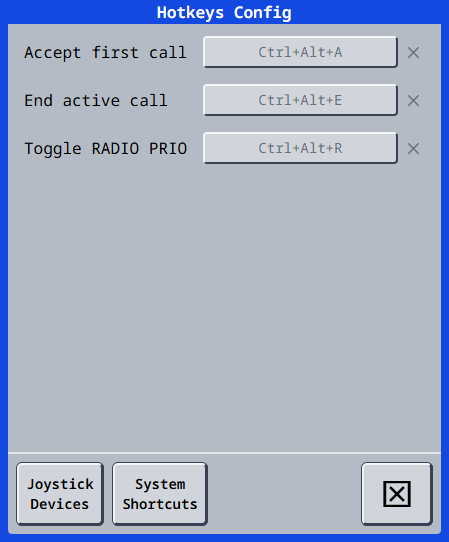
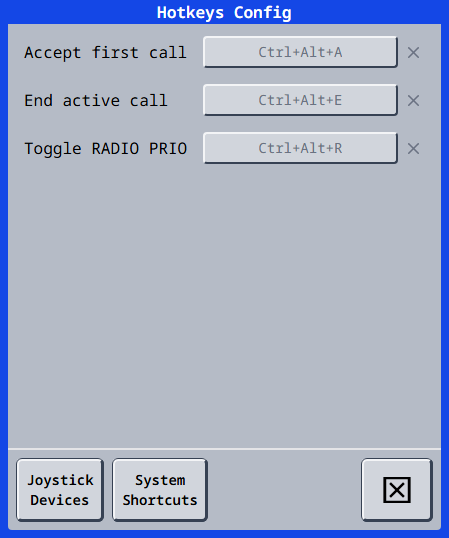
docs: prepare 2.7.0 release notes (#74)
* docs: write the Linux install section and cover the AppImage

* docs: note the portal requirement for starting the AppImage on Wayland

Claude-Session: https://claude.ai/code/session_012hjmtJQR6JjEwKLMx2nXVP

* docs: document the say again function key

Claude-Session: https://claude.ai/code/session_01CGb1WwmQVVZ9EJicUaTEZz

* docs: note desktops without the global shortcuts portal

Claude-Session: https://claude.ai/code/session_01C6JUT4woXmNwLWCHjqx29S

* docs: explain which IP to use and how to unblock the remote control port

Claude-Session: https://claude.ai/code/session_011NWCn7SR8uhb8fMQDxeXPi

* docs: show the Hotkeys Config without a shortcuts portal

* docs: add the SAY AGAIN key image and refresh the Playback page image

* docs: refresh the captured images from the 2.7.0 Windows run

* docs: prepare 2.7.0 release notes

* docs: show the AppImage on the Linux release download image

---------

diff --git a/docs/advanced/remote-api.md b/docs/advanced/remote-api.md
@@ -311,19 +311,20 @@ The joystick commands require the `joystick` [capability](#capabilities). On a h
 
 Recording and replay of radio traffic. Requires the `playback` [capability](#capabilities); commands that reach the recorder return empty results when no recorder is running.
 
-| Command                | Args                                                                                                                                        | Returns                       | Description                                                                          |
-| ---------------------- | ------------------------------------------------------------------------------------------------------------------------------------------- | ----------------------------- | ------------------------------------------------------------------------------------ |
-| `playback_get_enabled` | -                                                                                                                                           | `boolean`                     | Whether playback recording is enabled.                                               |
-| `playback_set_enabled` | `enabled`: boolean                                                                                                                          | `null`                        | Enable or disable playback recording. Persisted to the client config.                |
-| `playback_list`        | -                                                                                                                                           | [`ClipMeta[]`](#clipmeta)     | List the recorded clips.                                                             |
-| `playback_delete`      | `id`: number                                                                                                                                | `boolean`                     | Delete a clip. Returns whether a clip was removed.                                   |
-| `playback_clear`       | -                                                                                                                                           | `null`                        | Delete all clips.                                                                    |
-| `playback_start`       | `id`: number, `deviceType`: [`PlaybackDeviceType`](#playbackdevicetype), `initialProgress`: number?, `startPaused`: boolean?                 | `null`                        | Start playing a clip. `initialProgress` is a fraction from 0.0 to 1.0.               |
-| `playback_pause`       | -                                                                                                                                           | `null`                        | Pause the playing clip.                                                              |
-| `playback_continue`    | -                                                                                                                                           | `null`                        | Resume the paused clip.                                                              |
-| `playback_stop`        | -                                                                                                                                           | `null`                        | Stop playback and release the audio source.                                          |
-| `playback_seek`        | `millis`: number                                                                                                                            | `null`                        | Seek within the playing clip. Negative values rewind.                                |
-| `playback_export`      | `id`: number                                                                                                                                | `string`                      | Copy a clip to the saved directory, exempting it from eviction. Returns the destination path and opens the folder on the desktop host. |
+| Command                  | Args                                                                                                                                        | Returns                               | Description                                                                                                                                     |
+| ------------------------ | ------------------------------------------------------------------------------------------------------------------------------------------- | ------------------------------------- | ----------------------------------------------------------------------------------------------------------------------------------------------- |
+| `playback_get_enabled`   | -                                                                                                                                           | `boolean`                             | Whether playback recording is enabled.                                                                                                          |
+| `playback_set_enabled`   | `enabled`: boolean                                                                                                                          | `null`                                | Enable or disable playback recording. Persisted to the client config.                                                                           |
+| `playback_list`          | -                                                                                                                                           | [`ClipMeta[]`](#clipmeta)             | List the recorded clips.                                                                                                                        |
+| `playback_delete`        | `id`: number                                                                                                                                | `boolean`                             | Delete a clip. Returns whether a clip was removed.                                                                                              |
+| `playback_clear`         | -                                                                                                                                           | `null`                                | Delete all clips.                                                                                                                               |
+| `playback_start`         | `id`: number, `deviceType`: [`PlaybackDeviceType`](#playbackdevicetype), `initialProgress`: number?, `startPaused`: boolean?                | `null`                                | Start playing a clip. `initialProgress` is a fraction from 0.0 to 1.0.                                                                          |
+| `playback_say_again`     | `deviceType`: [`PlaybackDeviceType`](#playbackdevicetype)                                                                                   | [`ClipMeta`](#clipmeta) &#124; `null` | Replay the newest recorded clip from the start, replacing any playing clip. Returns the clip started, or `null` when nothing has been recorded. |
+| `playback_pause`         | -                                                                                                                                           | `null`                                | Pause the playing clip.                                                                                                                         |
+| `playback_continue`      | -                                                                                                                                           | `null`                                | Resume the paused clip.                                                                                                                         |
+| `playback_stop`          | -                                                                                                                                           | `null`                                | Stop playback and release the audio source.                                                                                                     |
+| `playback_seek`          | `millis`: number                                                                                                                            | `null`                                | Seek within the playing clip. Negative values rewind.                                                                                           |
+| `playback_export`        | `id`: number                                                                                                                                | `string`                              | Copy a clip to the saved directory, exempting it from eviction. Returns the destination path and opens the folder on the desktop host.          |
 
 ### Radio
 

diff --git a/docs/using-vacs/remote-control.md b/docs/using-vacs/remote-control.md
@@ -63,9 +63,11 @@ Bookmark the URL on your secondary device for quick access in future sessions.
 
 [^find-ip]: **Finding your local IP address:**
 
-    - **Windows:** Open **Settings > Network & internet** and select your active connection (Wi-Fi or Ethernet) to see your IPv4 address. Alternatively, open a terminal and run `ipconfig`, looking for the `IPv4 Address` of your active network adapter.
+    - **Windows:** Open **Settings > Network & internet**, select your active connection (Wi-Fi or Ethernet) and look for **IPv4 address**. Alternatively, press <kbd>Win</kbd>+<kbd>R</kbd>, type `cmd`, press <kbd>Enter</kbd> and run `ipconfig`. Use the `IPv4 Address` line of the adapter you are actually connected through (usually named "Wireless LAN adapter Wi-Fi" or "Ethernet adapter Ethernet").
     - **macOS:** Open **System Settings > Network**, select your active connection, and look for the IP address. Alternatively, open Terminal and run `ipconfig getifaddr en0`.
     - **Linux:** Open your desktop's **Network** or **Wi-Fi** settings to find the IP address. Alternatively, open a terminal and run `ip addr` or `hostname -I`.
+
+    On a home network the address usually starts with `192.168.` or `10.`. Things that look similar but are **not** the right address: the **Default Gateway** (that is your router), addresses of virtual adapters such as `vEthernet`, `WSL`, `VirtualBox`, `VMware` or a VPN, `169.254.x.x` addresses (the adapter has no network), and the "public IP" shown by websites (that is your internet connection, not your PC).
 
 ## Limitations
 
@@ -82,10 +84,39 @@ The remote control server has no authentication or encryption. Do **not** expose
 
 ### The browser cannot connect
 
-- Make sure vacs is running and remote control is enabled in the settings. You should see a "Remote control server listening on" message in the logs.
-- Verify that you're using the correct IP address and port.
-- Check that your firewall allows incoming connections on the configured port (default: 9600).
-- On Linux, ensure the port is not blocked by `iptables`, `ufw`, or a similar firewall.
+Narrow the problem down in three steps, each on the device named:
+
+1. **On the PC running vacs**, open `http://localhost:9600`. If this fails, remote control is not running: check that it is enabled in the settings and that the logs contain a "Remote control server listening on" line.
+2. **Still on the PC**, open `http://<your-local-ip>:9600` with the IP address you intend to use from the other device. If this fails while step 1 works, the address is wrong - see the notes on [finding your local IP address](#connecting-from-a-browser). Your own PC is never blocked by its firewall, so a "refused to connect" error here means the address does not belong to this PC.
+3. **On the other device**, open the same URL. If steps 1 and 2 work but this one does not, something between the two devices blocks the connection. Almost always this is the firewall on the PC running vacs, see below.
+
+Other things to check:
+
+- Type `http://`, not `https://`. Some browsers silently upgrade to `https://`, which the remote control server does not speak. If in doubt, type the full URL including `http://`.
+- Both devices must be on the same network. A tablet or phone on mobile data, or on a guest Wi-Fi, cannot reach your PC.
+- Some routers offer "client isolation" or "AP isolation" that keeps Wi-Fi devices from talking to each other. Disable it, or connect the PC by cable.
+
+#### Firewall on Windows
+
+Windows Defender Firewall blocks incoming connections unless an app or port is allowed. vacs does not add a rule for you.
+
+- Check which profile your network uses under **Settings > Network & internet > Wi-Fi** (or **Ethernet**), then click your network. If it says **Public network**, switch it to **Private network**. Public profiles block almost all incoming connections.
+- To allow the port explicitly, open a terminal as administrator (right-click the Start button, **Terminal (Admin)**) and run:
+
+  ```
+  netsh advfirewall firewall add rule name="vacs remote control" dir=in action=allow protocol=TCP localport=9600
+  ```
+
+  Use the port you configured if you changed it from 9600.
+
+- To do the same in the GUI: press <kbd>Win</kbd>+<kbd>R</kbd>, type `wf.msc`, then **Inbound Rules > New Rule > Port > TCP 9600 > Allow the connection** and tick at least **Private**.
+
+To confirm it really is the firewall, you can temporarily turn it off under **Windows Security > Firewall & network protection**, retry from the other device, and turn it back on right away. If it works with the firewall off, add the rule above rather than leaving the firewall disabled.
+
+#### Firewall on macOS and Linux
+
+- **macOS:** the firewall is off by default. If you enabled it, go to **System Settings > Network > Firewall > Options** and allow incoming connections for vacs.
+- **Linux:** allow the port in your firewall, for example `sudo ufw allow 9600/tcp` on Ubuntu or `sudo firewall-cmd --add-port=9600/tcp --permanent && sudo firewall-cmd --reload` on Fedora.
 
 ### The interface loads but nothing happens
 

diff --git a/docs/getting-started/installation.md b/docs/getting-started/installation.md
@@ -64,7 +64,16 @@ To install vacs on Linux, follow the instructions below:
 - Visit the [GitHub Releases page](https://github.com/MorpheusXAUT/vacs/releases) of vacs.
 - To download the latest stable version of vacs, find the release marked [**Latest**](https://github.com/MorpheusXAUT/vacs/releases/latest).
 - If not already done, expand the **Assets** Tab.
-- Download the correct installer for your system. For **Linux**, this file has the ending `x86_64.rpm` (Linux rpm) or `_amd64.deb` (Linux deb).
+- Download the correct file for your system. For **Linux**, there are three options:
+  - `_amd64.deb` - for Debian, Ubuntu, Linux Mint and other Debian-based distributions
+  - `x86_64.rpm` - for Fedora, openSUSE, RHEL and other Red Hat-based distributions
+  - `_amd64.AppImage` - for any other distribution, or if you would rather not install anything system-wide
+
+:::tip[Which one should I pick?]
+If your distribution is Debian- or Red Hat-based, prefer the `.deb` or `.rpm`. They are considerably
+smaller, because they share the system's existing libraries instead of shipping their own copies.
+Pick the AppImage if neither package fits your distribution.
+:::
 
 :::tip
 If you don’t see your file, click **Show all assets** to display the complete list.
@@ -84,7 +93,61 @@ style={{
 
 ### Installing vacs
 
-In Progress.
+How you install vacs depends on which file you downloaded.
+
+#### Debian package (`.deb`)
+
+Double-click the file to open it in your desktop's software installer, or install it from a terminal:
+
+```bash
+sudo apt install ./vacs_<version>_amd64.deb
+```
+
+Your package manager pulls in the system libraries vacs needs. Once it finishes, vacs appears in
+your application menu.
+
+#### RPM package (`.rpm`)
+
+Double-click the file to open it in your desktop's software installer, or install it from a terminal:
+
+```bash
+sudo dnf install ./vacs-<version>-1.x86_64.rpm
+```
+
+As with the Debian package, dependencies are handled for you and vacs appears in your application
+menu afterwards.
+
+#### AppImage
+
+An AppImage is a single self-contained file - there is nothing to install. Mark it as executable and
+run it:
+
+```bash
+chmod +x vacs_<version>_amd64.AppImage
+./vacs_<version>_amd64.AppImage
+```
+
+You can move it anywhere you like, for example `~/Applications`. Because the AppImage carries its own
+copies of the libraries vacs needs, it is a much larger download than the `.deb` or `.rpm`, and it
+does not add itself to your application menu on its own. Tools such as
+[Gear Lever](https://flathub.org/apps/it.mijorus.gearlever) or
+[AppImageLauncher](https://github.com/TheAssassin/AppImageLauncher) can do that for you if you want
+a menu entry.
+
+:::note[Starting the AppImage on Wayland]
+On a Wayland desktop, vacs registers its push-to-talk and other global shortcuts with the desktop
+portal, and the portal has to know which application is asking. A packaged vacs is recognized by its
+menu entry. When you start the AppImage by double-clicking it in a file manager, vacs identifies
+itself to the portal instead, which requires `xdg-desktop-portal` 1.22 or newer. On an older system
+vacs starts normally, but its keyboard shortcuts do not work; start it from a terminal instead, or add
+a menu entry with one of the tools above and launch it from the menu.
+:::
+
+:::note
+Some minimal distributions do not ship FUSE, which AppImages use to mount themselves. If the
+AppImage refuses to start with a FUSE-related message, install your distribution's `fuse` package,
+or run it once with `./vacs_<version>_amd64.AppImage --appimage-extract-and-run`.
+:::
 
 :::info
 You can update vacs later using the built-in updater. See the [Updating](/getting-started/updating) section for details.

diff --git a/docs/getting-started/requirements.md b/docs/getting-started/requirements.md
@@ -21,12 +21,13 @@ Since vacs authenticates through [VATSIM Connect](https://vatsim.dev/services/co
 
 - Ubuntu 22.04+, Fedora 40+, or a similar modern distribution is recommended (64-bit)
 - Required system libraries are automatically installed by your package manager when you install vacs via the provided .deb or .rpm packages
+- If your distribution supports neither, an AppImage is also provided. It bundles the libraries vacs needs, so it runs on most distributions without installing anything, at the cost of a noticeably larger download. See [Installation](/getting-started/installation#linux)
 - An ALSA-compatible audio backend is required. This is usually automatically satisfied if you're running PulseAudio or Pipewire, which most modern Linux desktops use by default. The suggested audio packages are also included as dependencies for our packages
 
 :::note[Wayland users]
 If you're running a Wayland-based desktop (common on recent GNOME and KDE setups), there are some known issues and limitations. See the [Wayland](/known-issues-limitations/wayland) section of the [Known Issues & Limitations](/known-issues-limitations) page for details.
 
-The most noticeable ones concern key bindings: on Wayland, keyboard shortcuts are managed by your desktop environment rather than by vacs, and the [Audio for VATSIM](/settings/transmit#radio-integration) radio integration cannot be used. See [Platform support](/settings/hotkeys#platform-support) for the full picture.
+The most noticeable ones concern key bindings: on Wayland, keyboard shortcuts are managed by your desktop environment rather than by vacs, or are unavailable on desktops whose portal offers no global shortcuts, and the [Audio for VATSIM](/settings/transmit#radio-integration) radio integration cannot be used. See [Platform support](/settings/hotkeys#platform-support) for the full picture.
 
 X11 desktops are fully supported as of **vacs 2.6.0**, including global hotkeys and the Audio for VATSIM radio integration. Earlier versions did not support global key bindings on X11 at all.
 :::

diff --git a/docs/interface/playback.md b/docs/interface/playback.md
@@ -79,3 +79,28 @@ style={{
     width: "80%"
   }}
 />
+
+---
+
+## Say Again
+
+**SAY AGAIN** is a button in the upper function button row, to the right of **PLAY BACK**. It replays the most recent recorded transmission immediately, so you can hear a readback again without opening the Playback page.
+
+<img
+src="/img/playback/say-again-button.png"
+alt="The upper function button row with the SAY AGAIN button"
+class="screenshot"
+style={{
+    width: "80%"
+  }}
+/>
+
+Press **SAY AGAIN** to replay the newest recording from the start. The button stays blue for as long as it owns the replay, including while the clip is paused from the Playback page, and pressing it again stops the replay. If nothing has been recorded yet, pressing the button does nothing. A transmission that is still in progress is not replayed; only the newest finished recording is.
+
+The clip plays through the output that the headset/speaker toggle on the Playback page currently selects, the headset by default. If the Playback page is open, it shows that same clip as the selected one and reflects that it is playing, so the stop, pause and seek controls there apply to it. Closing the page does not stop a replay started with **SAY AGAIN**.
+
+The button is greyed out and cannot be pressed under the same conditions that make the Playback page show a notice: radio playback is not supported on your platform, no radio integration is configured, or **Enable radio playback** is off. While the radio is disconnected the button keeps its normal text but stays inactive until the connection is back. Losing the radio connection also stops a replay that is playing.
+
+:::note
+There is no keyboard shortcut for SAY AGAIN in this release; the button is the only way to trigger it.
+:::

diff --git a/docs/settings/hotkeys.md b/docs/settings/hotkeys.md
@@ -162,6 +162,8 @@ Keys you assign, change or clear in your desktop settings take effect straight a
 
 The first time vacs runs, your desktop asks whether to let it register these shortcuts. If you dismiss that dialog, none of them are registered and vacs hotkeys stay inactive, even after you assign keys in your desktop settings. Restart vacs to get the request again.
 
+Some desktops do not offer the global shortcuts portal at all, for example GNOME before version 47 and older Plasma releases. vacs still starts there and says so on the Hotkeys and Transmit pages, but keyboard shortcuts stay unavailable: the actions cannot be bound to keys, while joystick buttons and voice activation work as usual.
+
 Joystick buttons are not affected by this restriction and are captured directly in vacs. Binding a joystick button to an action **replaces** the desktop shortcut for that action, and removing the button restores it.
 :::
 
@@ -170,6 +172,20 @@ This is what the Hotkeys Config looks like on a Wayland session: the keys come f
 <img
 src="/img/settings/HotkeysConfigPage-wayland.png"
 alt="vacs Hotkeys Config on Wayland, with desktop-managed keys and the System Shortcuts button"
+style={{
+    width: "45%",
+    display: "block",
+    margin: "1.5rem auto",
+    borderRadius: "8px",
+    boxShadow: "0 4px 16px rgba(0,0,0,0.08)"
+  }}
+/>
+
+On a Wayland desktop without a global shortcuts portal, the page says so instead, and the fields only accept joystick buttons:
+
+<img
+src="/img/settings/HotkeysConfigPage-wayland-no-portal.png"
+alt="vacs Hotkeys Config on a Wayland desktop without a global shortcuts portal"
 style={{
     width: "45%",
     display: "block",

diff --git a/docs/settings/advanced.md b/docs/settings/advanced.md
@@ -48,6 +48,8 @@ The **Remote Control** section allows you to enable and configure the [remote co
 
 When checked, the remote control feature is activated and vacs starts listening for incoming connections on the address and port configured below.
 
+vacs does not change your firewall. If other devices cannot connect, allow the port on the machine running vacs, see [Troubleshooting](/using-vacs/remote-control#the-browser-cannot-connect).
+
 ### Listen address
 
 The IP and port vacs should listen on for incoming remote control connections. By default, vacs listens on all available network interfaces on port 9600 (`0.0.0.0:9600`).
@@ -64,7 +66,7 @@ The **Audio Backend** section allows you to configure the audio backend (by defa
 
 ### Enable radio playback
 
-When checked, vacs will record incoming radio transmissions - via TrackAudio or Audio for VATSIM, depending on your [Radio Integration](/settings/transmit#radio-integration) - and make them available for playback. Disabling this setting stops all future recordings and deletes all existing (non-exported) recordings.
+When checked, vacs will record incoming radio transmissions - via TrackAudio or Audio for VATSIM, depending on your [Radio Integration](/settings/transmit#radio-integration) - and make them available for playback. Disabling this setting stops all future recordings, stops a replay that is playing, and deletes all existing (non-exported) recordings.
 
 ## Couple Mode
 

diff --git a/docs/interface/overview.md b/docs/interface/overview.md
@@ -50,10 +50,12 @@ The upper button row contains operational controls such aus:
 - **TRANS**
 - **DIV**
 - **PLAYBACK**
-- **PLC LSP on/off**
+- **SAY AGAIN**
 - **SPLIT**
 
-Of these buttons, currently only the PRIO button is simulated.
+Of these buttons, PRIO, PLAYBACK and SAY AGAIN are functional; the rest are not simulated yet.
+
+**SAY AGAIN** replays the most recent recorded radio transmission without leaving the page you are on. See [Say Again](/interface/playback#say-again) for what it does and when it is available.
 
 A PRIO Call indicates to the reciever of the call, that the caller considers this call to be urgent. It is highlighted with a yellow border in the recievers vacs, and uses a special sound, to gain attention.
 

diff --git a/docs/known-issues-limitations/wayland.md b/docs/known-issues-limitations/wayland.md
@@ -3,3 +3,8 @@ sidebar_position: 2
 ---
 
 # Wayland
+
+Wayland does not let an application observe the keyboard while another window has focus, so vacs binds its hotkeys through your desktop's global shortcuts portal instead. Two things follow from that:
+
+- Keys are assigned in your desktop's shortcut settings, not in vacs. See [Platform support](/settings/hotkeys#platform-support) for how the Hotkeys and Transmit pages look on Wayland.
+- On desktops whose portal offers no global shortcuts, for example GNOME before version 47 and older Plasma releases, keyboard shortcuts are unavailable altogether. vacs starts normally and says so on the Hotkeys and Transmit pages; joystick buttons and voice activation still work.
